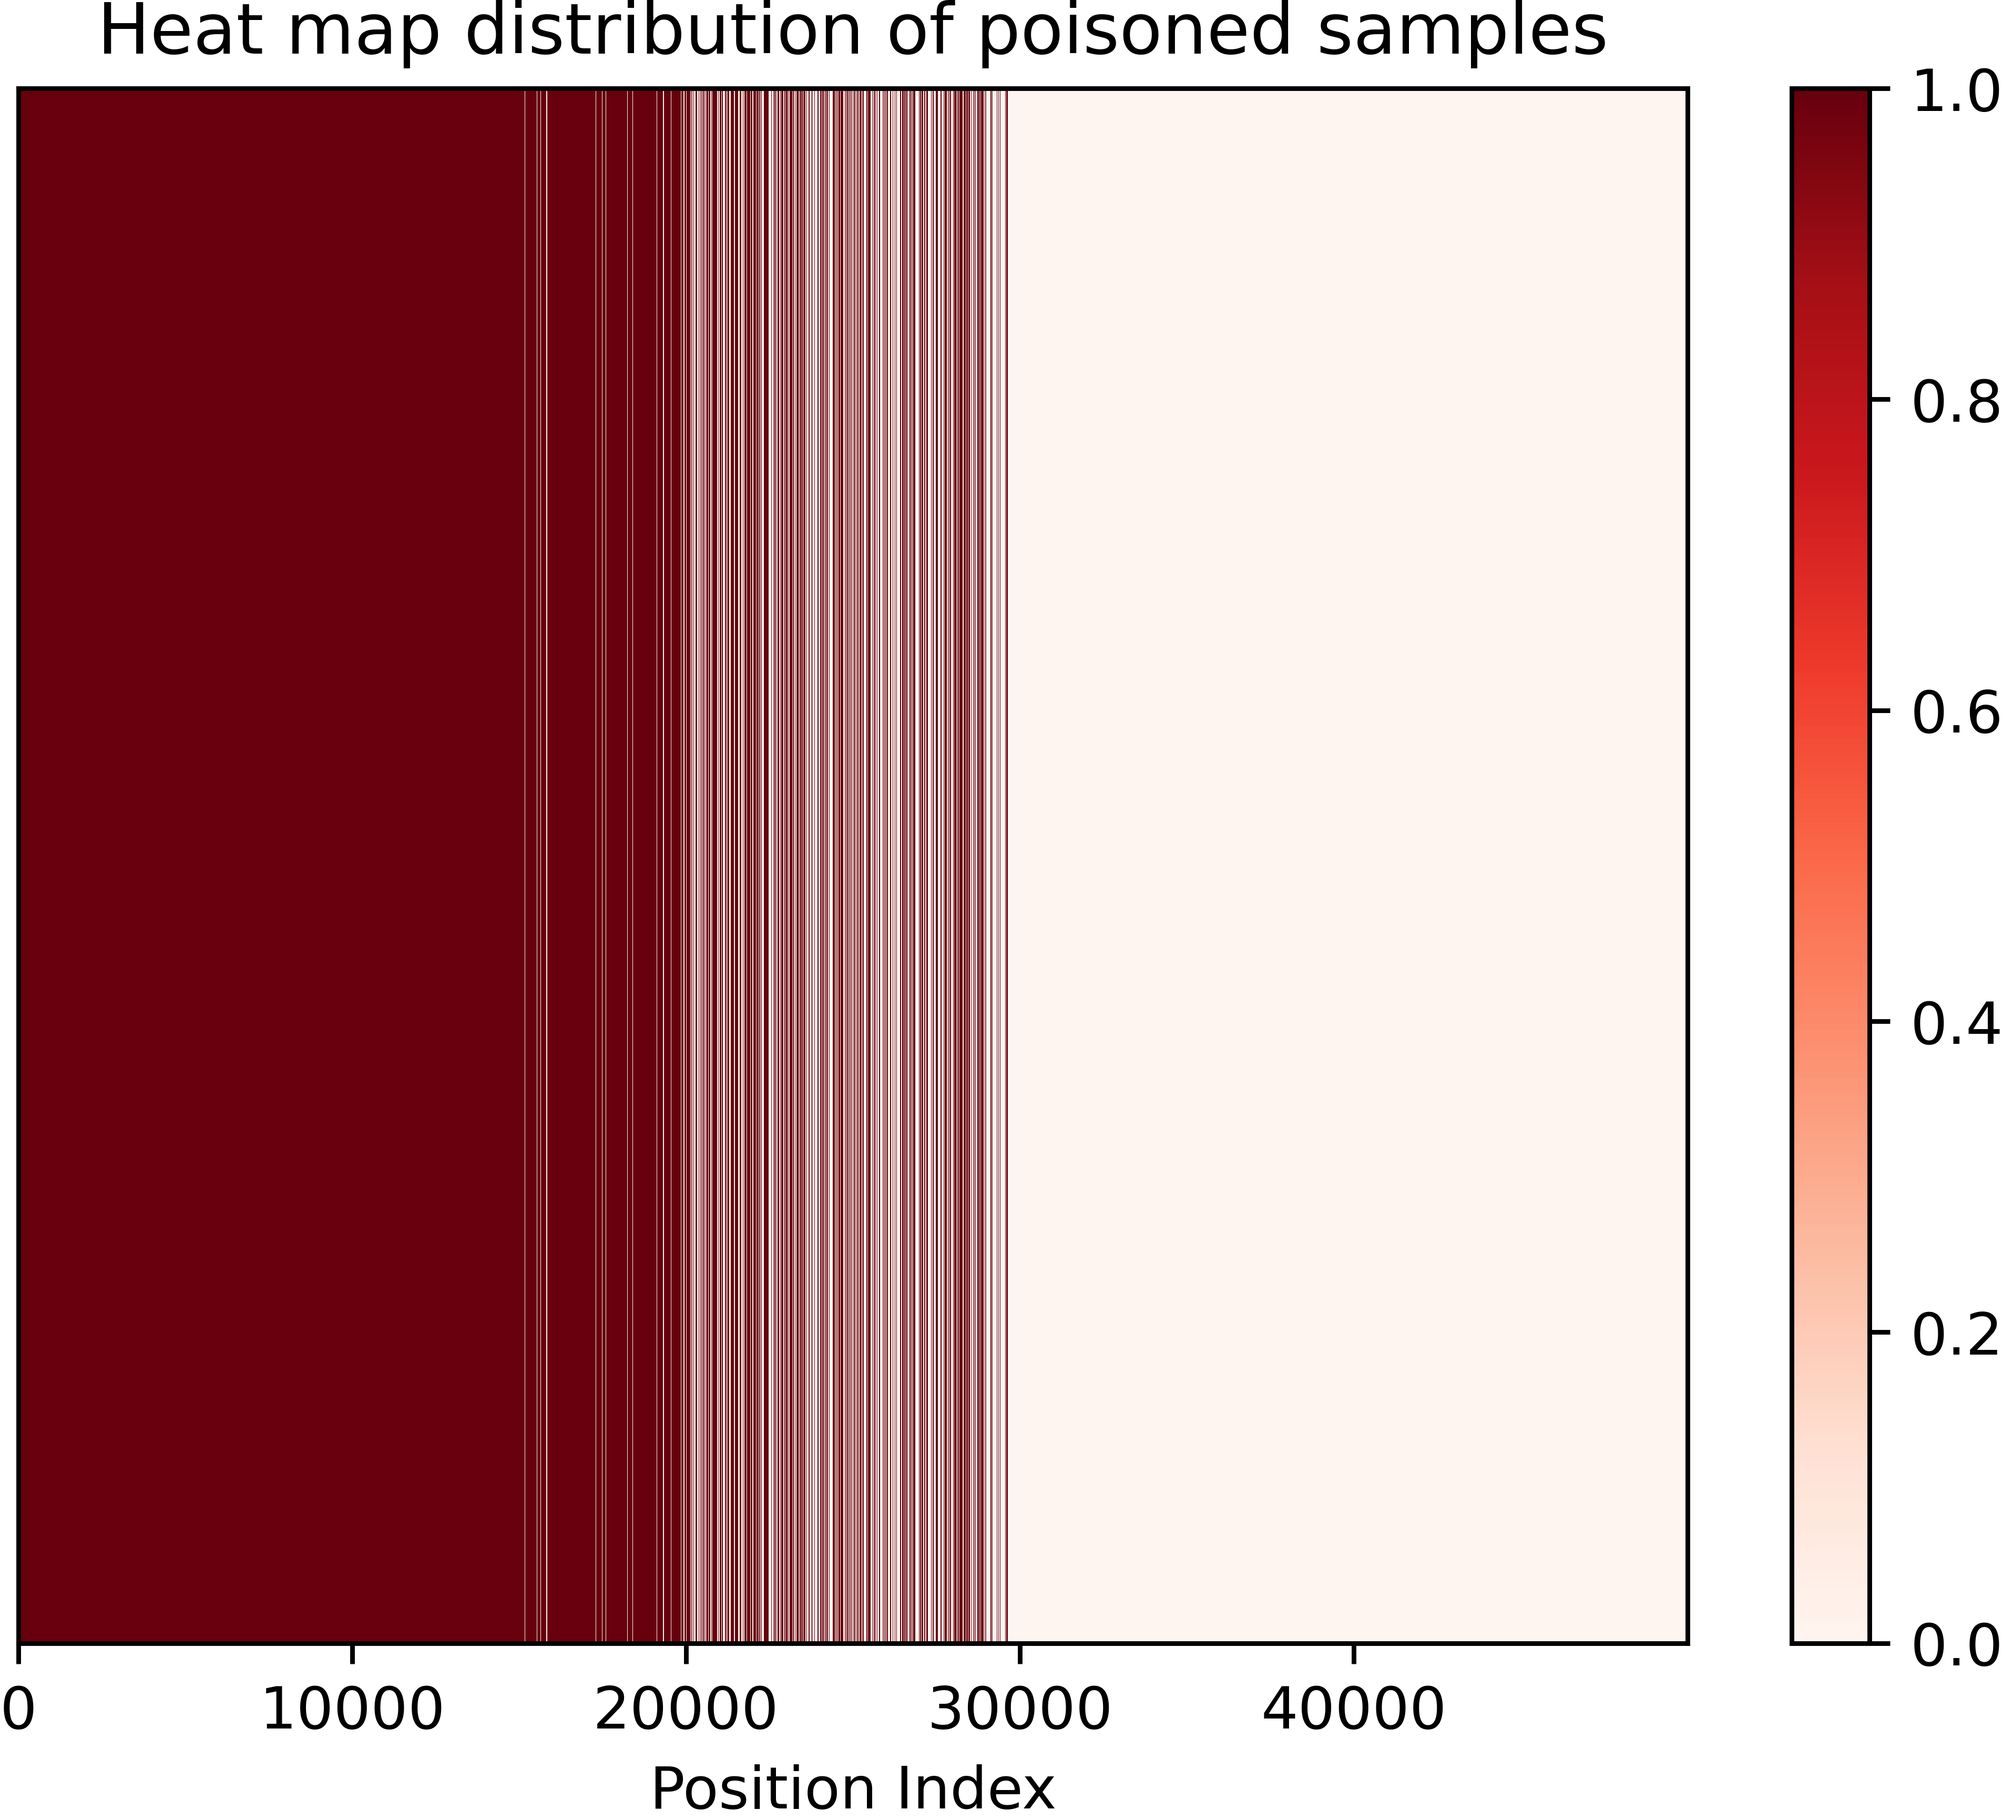
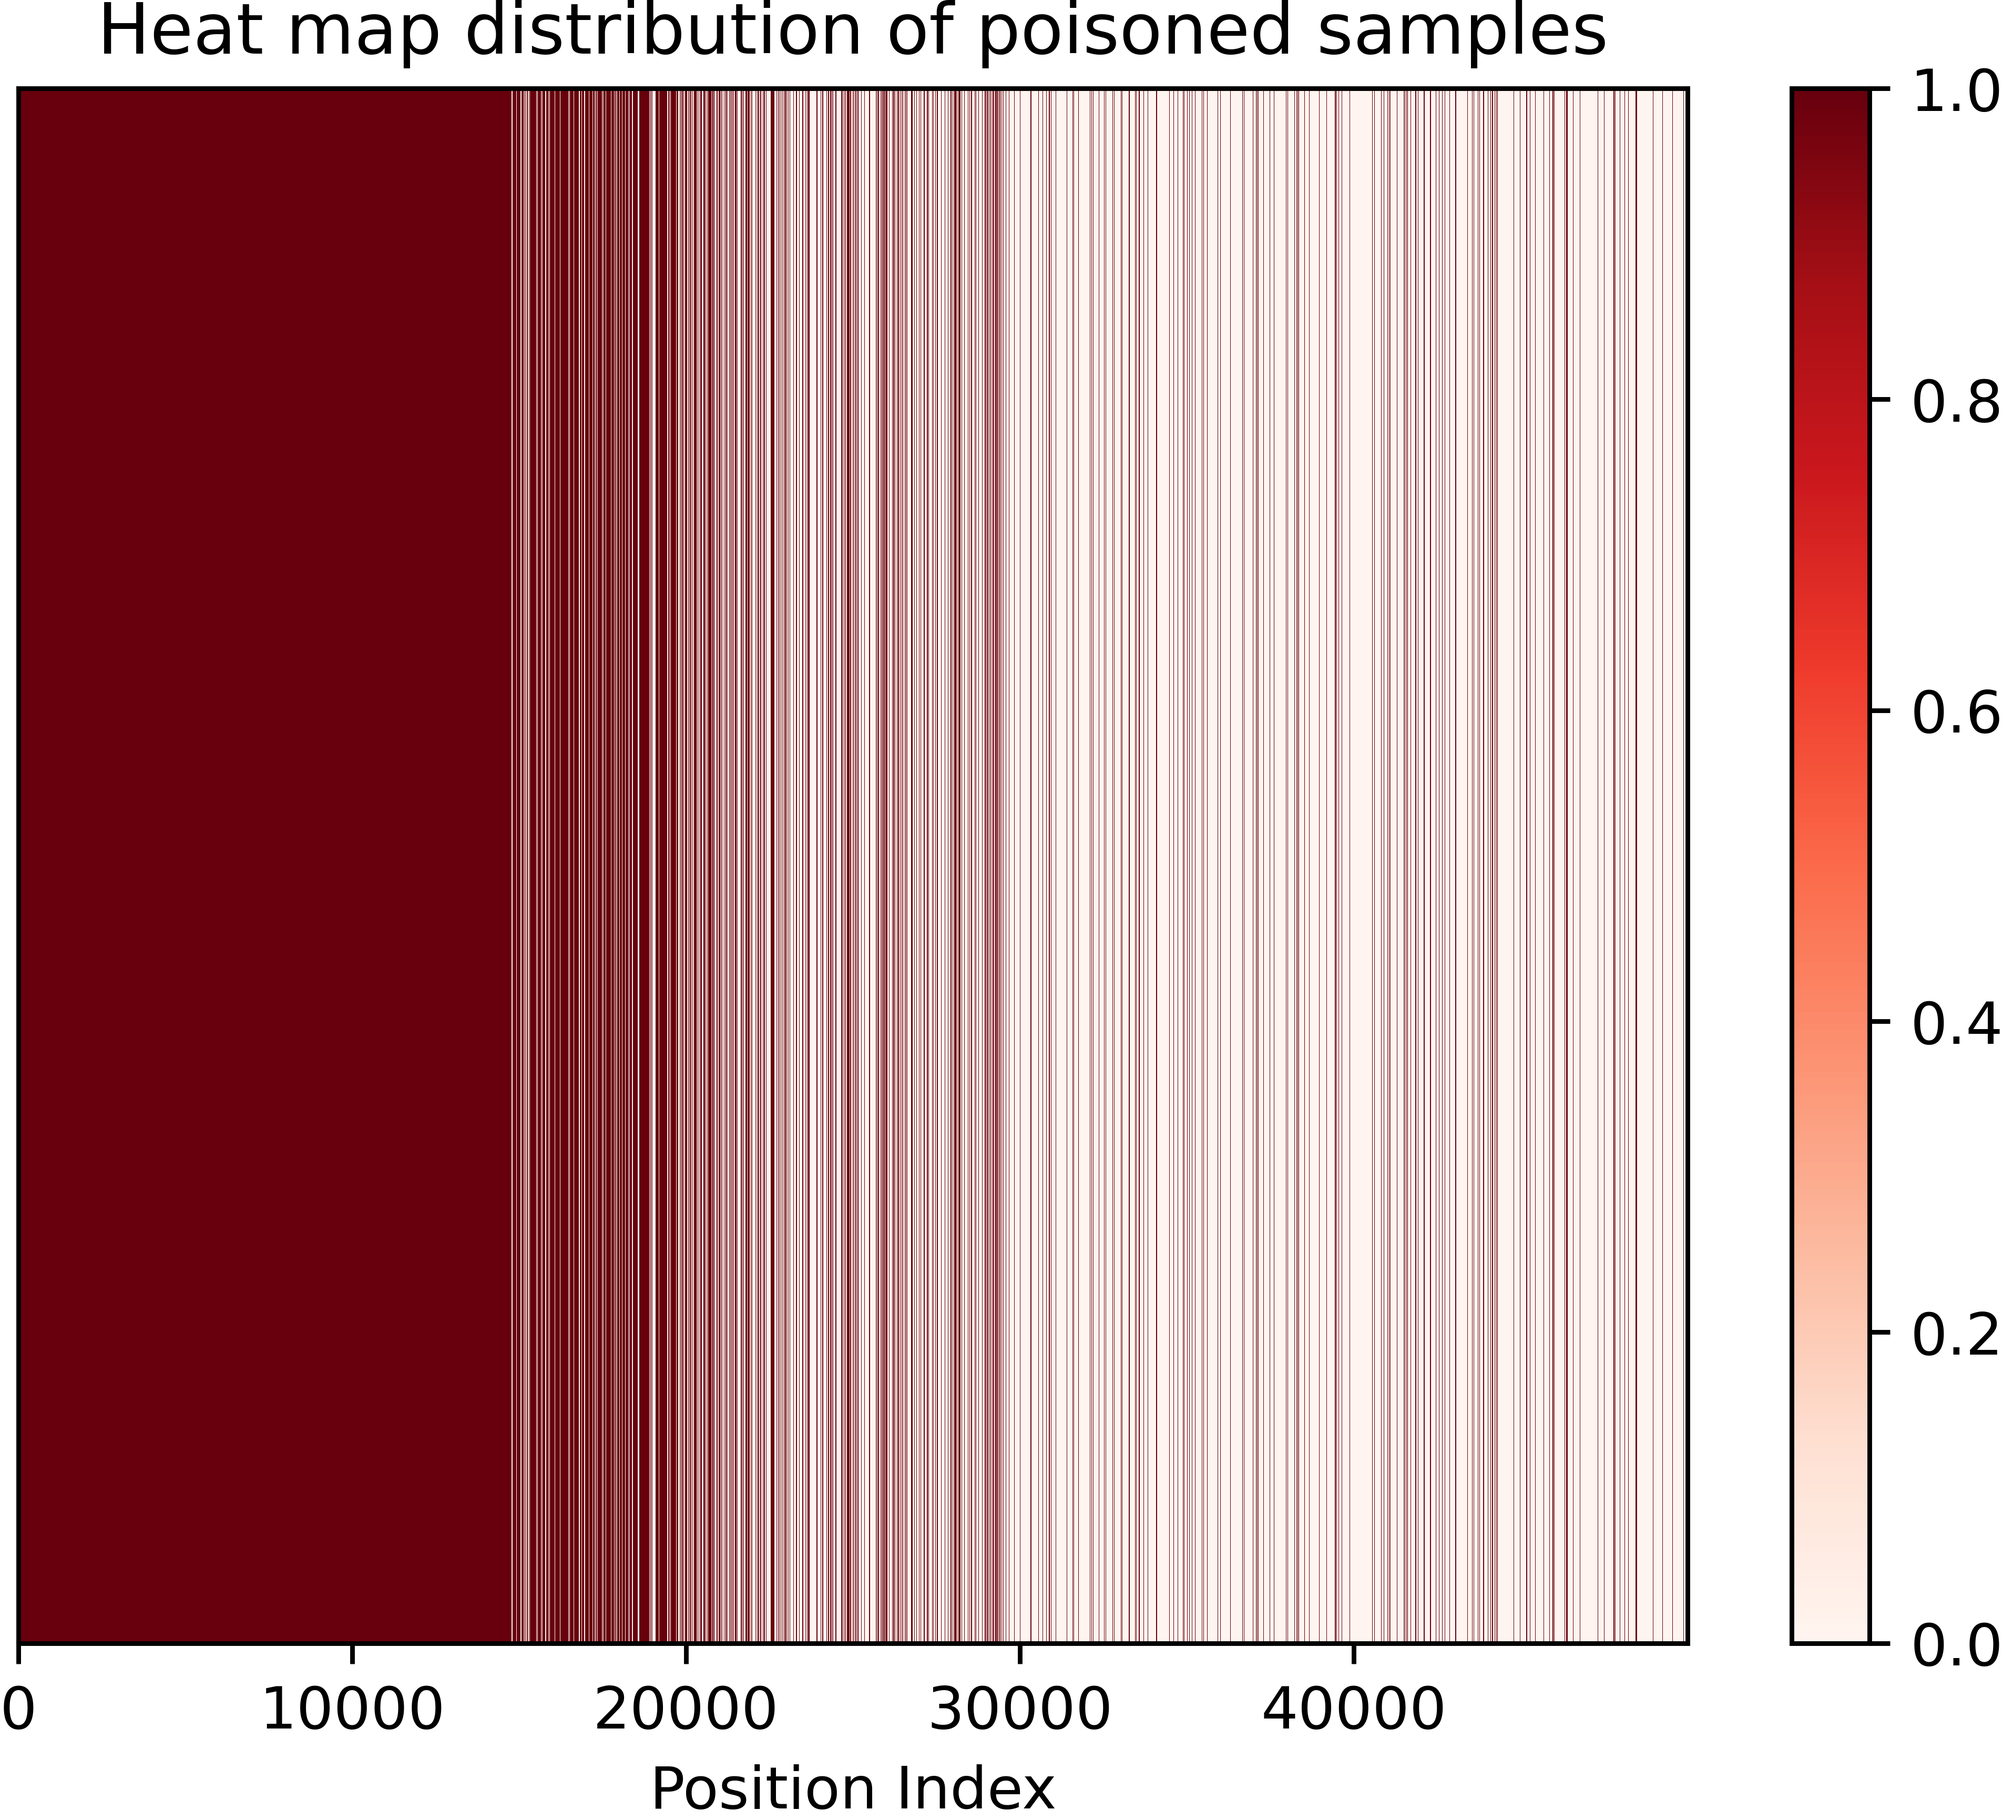
go

diff --git a/codes/ourMethod/defence.py b/codes/ourMethod/defence.py
@@ -71,7 +71,7 @@ def sampling_analyse(loss_array,poisoned_ids,sample_idx_array,gt_label_array):
     plt.title('Growth curve of poisoned data after sorting')
     plt.legend()
     plt.grid(True)
-    plt.savefig("imgs/OM3_1.png", bbox_inches='tight', pad_inches=0.0, dpi=800)
+    plt.savefig("imgs/OM4_1.png", bbox_inches='tight', pad_inches=0.0, dpi=800)
     plt.close()
     '''
     分析2：分析下采样出的样本排名分布，因为ASD是直接基于排名进行采样的，即直接采样排名前50%的样本，
@@ -94,7 +94,7 @@ def sampling_analyse(loss_array,poisoned_ids,sample_idx_array,gt_label_array):
     plt.xlabel('Position Index')
     plt.colorbar()
     plt.yticks([])
-    plt.savefig("imgs/OM3_2.png", bbox_inches='tight', pad_inches=0.0, dpi=800)
+    plt.savefig("imgs/OM4_2.png", bbox_inches='tight', pad_inches=0.0, dpi=800)
     plt.close()
     '''
     分析2：分析下采样出的样本的类别统计分布。因为，我们的方法考虑了样本的标签，不同的标签具有不同的采样概率，因此需要
@@ -139,7 +139,7 @@ def sampling_analyse(loss_array,poisoned_ids,sample_idx_array,gt_label_array):
     plt.ylim(0, 1.2 * max(label_percent))  # 扩大Y轴范围避免文字溢出
     plt.grid(axis='y', linestyle='--', alpha=0.6)
     plt.tight_layout()
-    plt.savefig("imgs/OM3_3.png", bbox_inches='tight', pad_inches=0.0, dpi=800)
+    plt.savefig("imgs/OM4_3.png", bbox_inches='tight', pad_inches=0.0, dpi=800)
     plt.close()
 
 def get_class_sampled_prob_map(classes_rank:list):
@@ -398,7 +398,7 @@ def defence_train(
     best_epoch = -1
     # 总共的训练轮次
     total_epoch = config.asd_config[kwargs["dataset_name"]]["epoch"]
-    for epoch in range(total_epoch): # range(total_epoch): # range(60,90)
+    for epoch in range(60,90): # range(total_epoch): # range(60,90)
         print("===Epoch: {}/{}===".format(epoch+1, total_epoch))
         if epoch < 60: # epoch:[0,59]
             # 记录下样本的loss,feature,label,方便进行clean数据的挖掘
@@ -417,7 +417,7 @@ def defence_train(
             record_list = poison_linear_record(model, poisoned_eval_dataset_loader, split_criterion, device,dataset_name=kwargs["dataset_name"], model_name =kwargs["model_name"])
             print("Mining clean data by class-agnostic loss-guided split...")
             # 将trainset对半划分为clean pool和poisoned pool
-            split_indice = class_agnostic_loss_guided_split(record_list, 0.5, poisoned_ids, sampling_method="method_3", class_prob_map=None, classes_rank = classes_rank) # class_prob_map=class_prob_map
+            split_indice = class_agnostic_loss_guided_split(record_list, 0.5, poisoned_ids, sampling_method=None, class_prob_map=class_prob_map, classes_rank = classes_rank) # class_prob_map=class_prob_map
             xdata = MixMatchDataset(poisoned_train_dataset, split_indice, labeled=True)
             udata = MixMatchDataset(poisoned_train_dataset, split_indice, labeled=False)
         elif epoch < total_epoch: # epoch:[90,120]
@@ -483,7 +483,7 @@ def defence_train(
 
             # 开始干净样本的挖掘
             print("Mining clean data by meta-split...")
-            split_indice = meta_split(record_list, meta_record_list, 0.5, poisoned_ids, sampling_method="method_3", class_prob_map=None, classes_rank = classes_rank)
+            split_indice = meta_split(record_list, meta_record_list, 0.5, poisoned_ids, sampling_method=None, class_prob_map=class_prob_map, classes_rank = classes_rank)
 
             xdata = MixMatchDataset(poisoned_train_dataset, split_indice, labeled=True)
             udata = MixMatchDataset(poisoned_train_dataset, split_indice, labeled=False)  
@@ -678,7 +678,7 @@ def class_agnostic_loss_guided_split(record_list, ratio, poisoned_indice, sampli
         "{}/{} poisoned samples in clean data pool".format(poisoned_count, len(total_indice))
     )
     clean_pool_flag[total_indice] = 1
-    '''
+    
     # 额外分析与可视化
     sampling_analyse(
         loss_array = loss,
@@ -686,7 +686,7 @@ def class_agnostic_loss_guided_split(record_list, ratio, poisoned_indice, sampli
         sample_idx_array = total_indice,
         gt_label_array = gt_label_array
         )
-    '''
+    
     
     return clean_pool_flag
 

diff --git a/codes/ourMethod/OurMethod_defence_train.py b/codes/ourMethod/OurMethod_defence_train.py
@@ -59,7 +59,7 @@ victim_model = get_model(dataset_name=config.dataset_name, model_name=config.mod
 '''
 # 加载stage1后(epoch=59完成后)的模型权重
 # 权重路径
-dict_path = "/data/mml/backdoor_detect/experiments/OurMethod/CIFAR10/ResNet18/BadNets/2025-03-23_20:13:26/ckpt/epoch59.pt"
+dict_path = "/data/mml/backdoor_detect/experiments/OurMethod/CIFAR10/ResNet18/BadNets/2025-03-25_11:23:08/ckpt/epoch59.pt"
 dict_data = torch.load(dict_path,map_location="cpu")
 # 权重load到模型中
 victim_model.load_state_dict(dict_data["model_state_dict"])

diff --git a/codes/config.py b/codes/config.py
@@ -41,9 +41,9 @@ dataset_name = "CIFAR10" # CIFAR10, GTSRB, ImageNet2012_subset
 # 数据集分类任务数量
 class_num = 10 #  CIFAR-10:10,GTSRB:43,ImageNet2012_subset:30
 # 当前实验设置的模型名字
-model_name = "VGG19" # ResNet18, VGG19, DenseNet
+model_name = "ResNet18" # ResNet18, VGG19, DenseNet
 # 当前实验设置的攻击
-attack_name = "WaNet" # BadNets, IAD, Refool, WaNet
+attack_name = "BadNets" # BadNets, IAD, Refool, WaNet
 # GPU设备 
 gpu_id = 1
 
